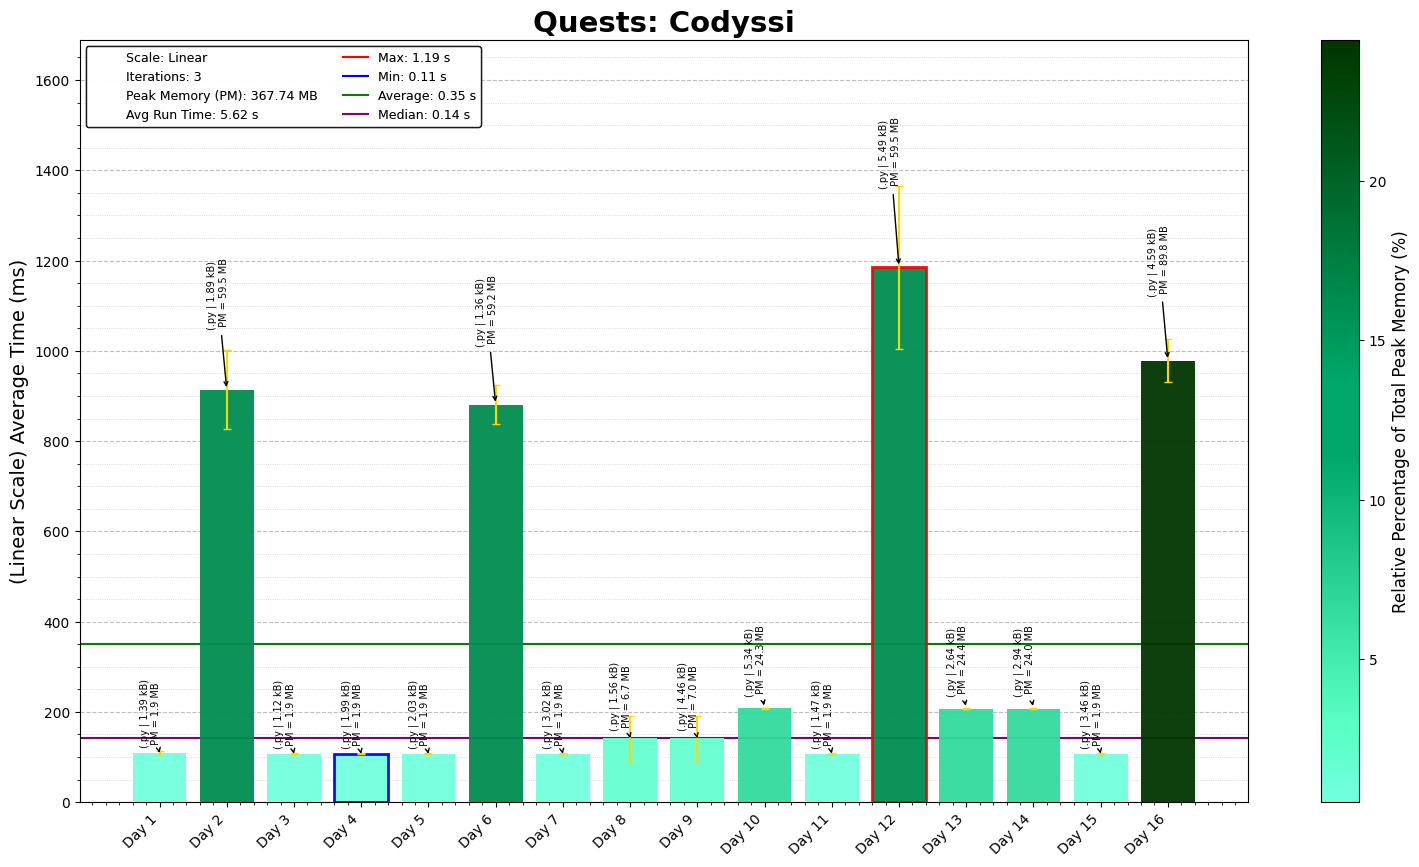
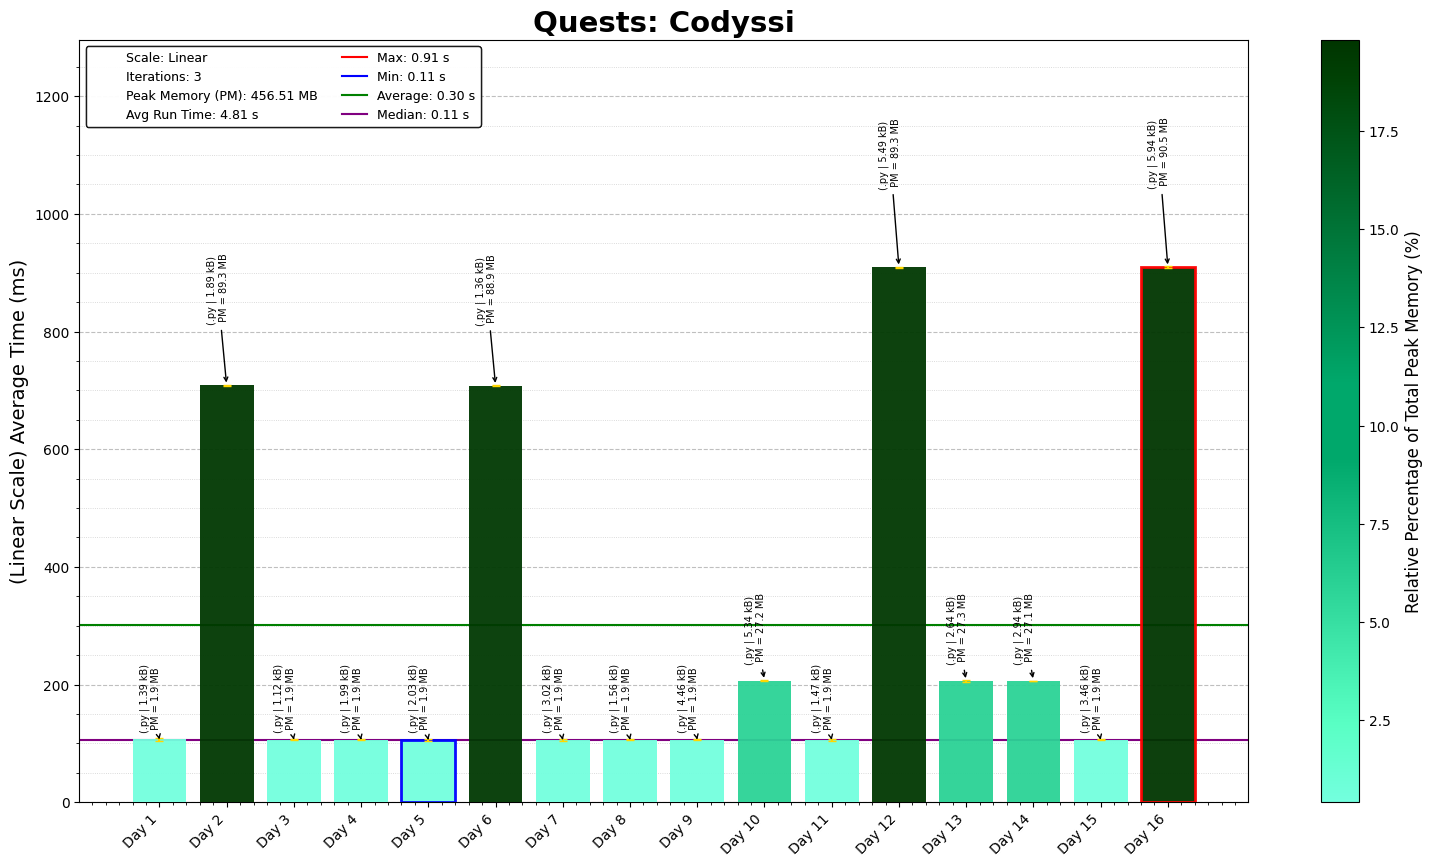
Codyssi Day 16 P3

diff --git a/Codyssi/2025/16/CodyssiDay16.py b/Codyssi/2025/16/CodyssiDay16.py
@@ -16,7 +16,6 @@ start_time = time.time()
 # Load the input data from the specified file path
 D16_file = "Day16_input.txt"
 D16_file_path = os.path.join(os.path.dirname(os.path.abspath(__file__)), D16_file)
-cube_size = (3, 3) if D16_file == "Day16_input1.txt" else (80, 80)
 
 # Read and sort input data into a grid
 with open(D16_file_path) as file:
@@ -53,10 +52,10 @@ class MindCube:
             return face
 
         orientations = {
-            'L': {'x':['-y',0],'-y':['-x',0],'-x':['y',0],'y':['x',0],'z':['z',1],'-z':['-z',3]},
-            'R': {'x':['y',0],'y':['-x',0],'-x':['-y',0],'-y':['x',0],'z':['z',3],'-z':['-z',1]},
-            'D': {'y':['z',0],'z':['-y',2],'-y':['-z',0],'-z':['y',2],'x':['x',3],'-x':['-x',1]},
-            'U': {'y':['-z',2],'-z':['-y',0],'-y':['z',2],'z':['y',0],'x':['x',1],'-x':['-x',3]}
+            'L': {'x':('-y', 0),'-y':('-x', 0),'-x':('y',0),  'y':('x',0),'z':('z',1),'-z':('-z',3)},
+            'R': {'x':('y', 0),  'y':('-x', 0),'-x':('-y',0),'-y':('x',0),'z':('z',3),'-z':('-z',1)},
+            'D': {'y':('z', 0),  'z':('-y', 2),'-y':('-z',0),'-z':('y',2),'x':('x',3),'-x':('-x',1)},
+            'U': {'y':('-z', 2),'-z':('-y', 0),'-y':('z',2),  'z':('y',0),'x':('x',1),'-x':('-x',3)}
         }
         rotate_dict = orientations[twist]
         cube_faces = {k: self_rotate(cube_faces[v[0]], v[1]) for k, v in rotate_dict.items()}
@@ -64,11 +63,11 @@ class MindCube:
 
         return cube_faces, cube_dict
 
-    def perform_transformations(self, twist_list: str):
-        cube_dict = self.cube_dict.copy()
-        cube_faces = self.cube_faces.copy()
+    def transform_single_face(self, twist_list: str):
+        cube_dict = copy.deepcopy(self.cube_dict)
+        cube_faces = copy.deepcopy(self.cube_faces)
         absorptions = {face:0 for face in cube_dict.values()}
-        main_face = 'y'
+        main_face = '-y'
 
         for (idx, instruc) in enumerate(self.instructions):
             op_type, delta = instruc[0], instruc[-1]
@@ -95,6 +94,34 @@ class MindCube:
 
         return absorptions, cube_faces
 
+    def transform_all_faces(self, twist_list: str):
+        cube_dict = copy.deepcopy(self.cube_dict)
+        cube_faces = copy.deepcopy(self.cube_faces)
+        main_face = '-y'
+
+        for (idx, instruc) in enumerate(self.instructions):
+            op_type, delta = instruc[0], instruc[-1]
+
+            if op_type == "FACE":
+                cube_faces[main_face] = (cube_faces[main_face] + instruc[1] - 1) % 100 + 1
+            elif op_type == "ROW":
+                row_no = instruc[1] - 1
+                for face in ['x','y','-x','-y']:
+                    cube_faces[face][row_no, :] = (cube_faces[face][row_no, :] + delta - 1) % 100 + 1
+            elif op_type == "COL":
+                col_no = instruc[1] - 1
+                for face in ['y','z']:
+                    cube_faces[face][:, -col_no - 1] = (cube_faces[face][:,-col_no - 1] + delta - 1) % 100 + 1
+                for face in ['-y','-z']:
+                    cube_faces[face][:, col_no] = (cube_faces[face][:, col_no] + delta - 1) % 100 + 1
+
+            # Apply twist if available
+            if idx < len(twist_list):
+                twist_dir = twist_list[idx]
+                cube_faces, cube_dict = self.rotate(twist_dir, cube_faces, cube_dict)
+
+        return cube_faces
+
     def calculate_dominant_sums(self, cube_faces):
         dominant_faces = []
         for face in cube_faces.values():
@@ -106,12 +133,16 @@ class MindCube:
             result *= num
         return result
 
-cubes = MindCube(instructions, cube_size)
+cubes = MindCube(instructions, (80, 80))
 
-absorption, final_cube = cubes.perform_transformations(directions)
+absorption, single_face_cube = cubes.transform_single_face(directions)
 print("Part 1:", np.prod(sorted(absorption.values(), reverse=True)[:2]))
 
-dominant_sum = cubes.calculate_dominant_sums(final_cube)
-print("Part 2:", dominant_sum) # 369594451623936000000
+dominant_sum_p2 = cubes.calculate_dominant_sums(single_face_cube)
+print("Part 2:", dominant_sum_p2)
 
-print(f"Execution Time = {time.time() - start_time:.5f}s")
+all_face_cube = cubes.transform_all_faces(directions)
+dominant_sum_p3 = cubes.calculate_dominant_sums(all_face_cube)
+print("Part 3:", dominant_sum_p3)
+
+# print(f"Execution Time = {time.time() - start_time:.5f}s")
